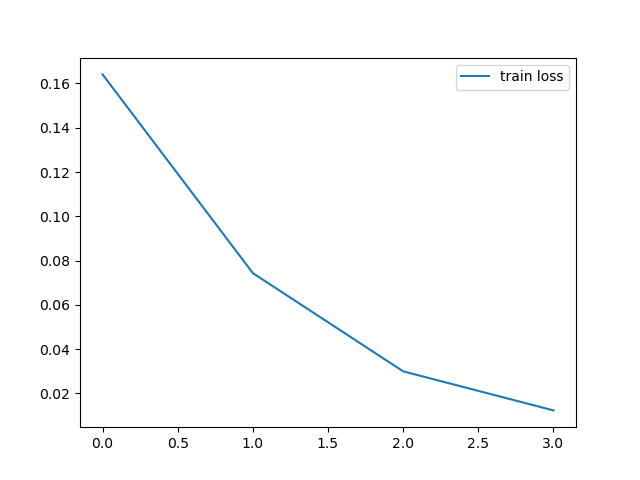
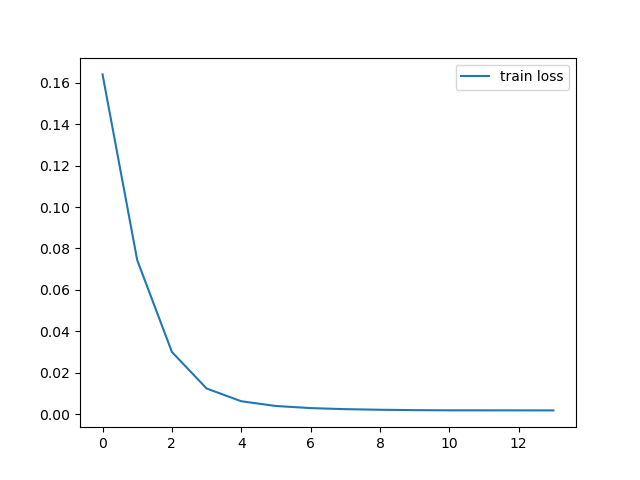
revamped file structure

diff --git a/neural_net_utils/core_test_train.py b/neural_net_utils/core_test_train.py
@@ -1,0 +1,62 @@
+import torch
+import torch.nn as nn
+
+def train(train_loader, model, optimizer, criterion, device, save_location,
+        n_epochs, use_parallel = False, scheduler = None, save_mod = 5, print_mod = 2, start_epoch = 0):
+    train_loss = []
+    for e in range(start_epoch, n_epochs):
+        model.train()
+        avg_loss = 0
+        for t, (x,y) in enumerate(train_loader):
+            x = x.to(device)
+            y = y.to(device)
+            optimizer.zero_grad()
+            yhat = model(x)
+            loss = criterion(yhat, y)
+            avg_loss += loss.item()
+            loss.backward()
+            optimizer.step()
+        avg_loss /= (t+1)
+        train_loss.append(avg_loss)
+
+        if scheduler is not None:
+            scheduler.step(e)
+        if e % print_mod == 0:
+            print('Epoch {}, loss = {:.4f}'.format(e, avg_loss))
+        if (e + 1) % save_mod == 0:
+            if use_parallel:
+                model_state = model.module.state_dict()
+            else:
+                model_state = model.state_dict()
+            if scheduler is not None:
+                torch.save({'model_state_dict': model_state,
+                            'epoch': e,
+                            'optimizer_state_dict': optimizer.state_dict(),
+                            'scheduler_state_dict': scheduler.state_dict(),
+                            'train_loss': train_loss},
+                            save_location)
+            else:
+                torch.save({'model_state_dict': model_state,
+                            'epoch': e,
+                            'optimizer_state_dict': optimizer.state_dict(),
+                            'scheduler_state_dict': None,
+                            'train_loss': train_loss},
+                            save_location)
+
+    return train_loss
+
+def test(loader, model, optimizer, criterion, device):
+    model.eval()
+    avg_loss = 0
+    with torch.no_grad():
+        for t, (x,y) in enumerate(loader):
+            x = x.to(device)
+            y = y.to(device)
+            optimizer.zero_grad()
+            yhat = model(x)
+            loss = criterion(yhat, y)
+            avg_loss += loss.item()
+    avg_loss /= (t+1)
+    print('\nMean test loss: {:.4f})'.format(avg_loss))
+    # TODO quartiles and median loss
+    return avg_loss

diff --git a/preprocess_data.py b/preprocess_data.py
@@ -1,9 +1,9 @@
-import os
 import numpy as np
-from utils import *
+from neural_net_utils.utils import *
+import sys
 
-def main(dir):
-    paths = sorted(make_dataset(dir))
+def process_data(dirname):
+    paths = sorted(make_dataset(dirname))
     for path in paths:
         print(path)
         x1_path = path + '/seq1.txt'
@@ -18,13 +18,47 @@ def main(dir):
 
         y_path = path + '/data_out/contacts.txt'
         y = np.loadtxt(y_path)[:1024, :1024] # TODO delete this later
-        np.save(path + '/y.npy', y.astype(np.int8))
+        np.save(path + '/y.npy', y.astype(np.int16))
 
-        y = diagonal_normalize(y.astype(np.float64))
-        np.save(path + '/y_diag_norm.npy', y)
+        y_diag = diagonal_normalize(y.astype(np.float64))
+        np.save(path + '/y_diag_norm.npy', y_diag)
+
+def test_process_data(dirname):
+    paths = sorted(make_dataset(dirname))
+    path = paths[0]
+    print(path)
+    x1_path = path + '/seq1.txt'
+    x1 = np.loadtxt(x1_path)
+    x2_path = path + '/seq2.txt'
+    x2 = np.loadtxt(x2_path)
+    x = np.vstack((x1, x2)).T
+    np.save(path + '/x.npy', x.astype(np.int8))
+    xload = np.load(path + '/x.npy')
+    assert np.array_equal(x, xload)
+
+    xx = x2xx(x)
+    np.save(path + '/xx.npy', xx.astype(np.int8))
+    xxload = np.load(path + '/xx.npy')
+    assert np.array_equal(xx, xxload)
+
+    y_path = path + '/data_out/contacts.txt'
+    y = np.loadtxt(y_path)[:1024, :1024] # TODO delete this later
+    np.save(path + '/y.npy', y.astype(np.int16))
+    yload = np.load(path + '/y.npy')
+    assert np.array_equal(y, yload)
+
+    y_diag = diagonal_normalize(y.astype(np.float64))
+    np.save(path + '/y_diag_norm.npy', y_diag)
+    y_diagload = np.load(path + '/y_diag_norm.npy')
+    assert np.array_equal(y_diag, y_diagload)
+
+def main():
+    if len(sys.argv) == 1:
+        dirname = 'dataset_04_06_21'
+    else:
+        dirname = sys.argv[1]
+    process_data(dirname)
 
 
 if __name__ == '__main__':
-    clusterdir = '../../../project2/depablo/erschultz/dataset_04_06_21'
-    mydir = 'dataset_04_06_21'
-    main(clusterdir)
+    main()

diff --git a/SimpleEpiNet.py b/SimpleEpiNet.py
@@ -1,7 +1,6 @@
 import torch
 import torch.nn as nn
 import torch.nn.functional as F
-from torch.utils.data import DataLoader
 import torch.optim as optim
 from neural_net_utils.networks import *
 from neural_net_utils.dataset_classes import *
@@ -10,24 +9,25 @@ from neural_net_utils.core_test_train import *
 import numpy as np
 import matplotlib.pyplot as plt
 import time
+import argparse
 
-def main(dirname, epochs = 1000, device = 'cuda:0', n = 1024, k = 2):
+def main(dirname = 'dataset_04_06_21', epochs = 10, n = 1024, k = 2, device = 'cpu'):
     t0 = time.time()
-    seq2ContactData = Sequences2Contacts(dirname, n = n, k = k, toxx = True)
-    train_dataloader, val_dataloader, test_dataloader = getDataloaders(seq2ContactData)
+    seq2ContactData = Sequences2Contacts(dirname, n = n, k = k, toxx = False)
+    train_dataloader, val_dataloader, test_dataloader = getDataLoaders(seq2ContactData, num_workers = 0)
 
     if device == 'cuda:0' and not torch.cuda.is_available():
         print('Warning: falling back to cpu')
         device = 'cpu'
 
-    model = UNet(nf_in = 2, nf_out = 1, nf = 8, out_act = nn.Sigmoid())
+    model = SimpleEpiNet(1024, 1, 2)
     model.to(device)
 
     optimizer = optim.Adam(model.parameters(), lr = 1e-3) # default beta TODO
     criterion = F.mse_loss
 
     train_loss_arr = train(train_dataloader, model, optimizer,
-            criterion, device, save_location = 'models/UNET1.pt', epochs = epochs)
+            criterion, device, save_location = 'models/model_4_8_21.pt', n_epochs = epochs)
     val_loss = test(val_dataloader, model, optimizer, criterion, device)
 
     print('Total time: {}'.format(time.time() - t0))
@@ -40,6 +40,4 @@ def main(dirname, epochs = 1000, device = 'cuda:0', n = 1024, k = 2):
     plt.close()
 
 if __name__ == '__main__':
-    clusterdir = '../../../project2/depablo/erschultz/dataset_04_06_21'
-    mydir = 'dataset_04_06_21'
-    main(clusterdir, 20)
+    main()

diff --git a/neural_net_utils/dataset_classes.py b/neural_net_utils/dataset_classes.py
@@ -1,0 +1,52 @@
+from torch.utils.data import Dataset, DataLoader
+from neural_net_utils.utils import *
+import torch
+
+class Sequences2Contacts(Dataset):
+    def __init__(self, dirname, n, k, toxx, y_diag_norm = True):
+        super(Sequences2Contacts, self).__init__()
+        self.n = n
+        self.k = k
+        self.toxx = toxx
+        self.y_diag_norm = y_diag_norm
+        self.paths = sorted(make_dataset(dirname))
+
+    def __getitem__(self, index):
+        y_path = self.paths[index] + '/y.npy'
+        y = np.load(y_path)
+        if self.y_diag_norm:
+            y = diagonal_normalize(y.astype(np.float64))
+        y = y.reshape(1, self.n, self.n)
+        y = y / np.max(y)
+
+        if self.toxx:
+            x_path = self.paths[index] + '/xx.npy'
+            x = np.load(x_path)
+        else:
+            x_path = self.paths[index] + '/x.npy'
+            x = np.load(x_path)
+            x = x.reshape(1, self.n, self.k)
+
+        return torch.Tensor(x), torch.Tensor(y)
+
+    def __len__(self):
+        return len(self.paths)
+
+class Contacts(Dataset):
+    def __init__(self, dirname, n, y_diag_norm = True):
+        super(Contacts, self).__init__()
+        self.n = n
+        self.y_diag_norm = y_diag_norm
+        self.paths = sorted(make_dataset(dirname))
+
+    def __getitem__(self, index):
+        y_path = self.paths[index] + '/y.npy'
+        y = np.load(y_path)
+        if self.y_diag_norm:
+            y = diagonal_normalize(y.astype(np.float64))
+        y = y.reshape(1, self.n, self.n)
+        y = y / np.max(y)
+        return y
+
+    def __len__(self):
+        return len(self.paths)

diff --git a/seqVAE.py b/seqVAE.py
@@ -1,33 +1,14 @@
 import torch
 import torch.nn as nn
-import torch.nn.functional as F
 from torch.utils.data import Dataset, DataLoader
 import torch.optim as optim
 import torchvision.transforms as transforms
-from neural_net_utils.base_networks import *
+from neural_net_utils.dataset_classes import *
 from neural_net_utils.networks import *
-import math
+from neural_net_utils.utils import getDataLoaders
 import numpy as np
 import matplotlib.pyplot as plt
-import os
-from utils import make_dataset
 import time
-
-class Contacts(Dataset):
-    def __init__(self, dir, size_y = 1024):
-        super(Contacts, self).__init__()
-        self.dir = dir
-        self.paths = sorted(make_dataset(dir))
-
-    def __getitem__(self, index):
-        y_path = self.paths[index] + '/y.npy'
-        y = np.load(y_path)
-        y = y.reshape(1, self.n, self.n)
-        y = y / np.max(y)
-        return torch.Tensor(y)
-
-    def __len__(self):
-        return len(self.paths)
 
 def trainVAE(train_loader, model, optimizer, device, save_location,
         epochs, save_mod = 5, print_mod = 2):
@@ -59,6 +40,8 @@ def trainVAE(train_loader, model, optimizer, device, save_location,
 def main(dir, epochs = 1000, device = 'cuda:0'):
     t0 = time.time()
     contactData = Contacts(dir)
+    for i in contactData:
+        print(i)
     train_dataloader = DataLoader(contactData, batch_size = 64,
                                     shuffle = True, num_workers = 0)
 

diff --git a/neural_net_utils/utils.py b/neural_net_utils/utils.py
@@ -1,7 +1,9 @@
+import torch
+from torch.utils.data import DataLoader
 from numba import jit
 import numpy as np
 import os
-import torch
+import math
 import matplotlib.pyplot as plt
 
 def make_dataset(dir):
@@ -11,6 +13,25 @@ def make_dataset(dir):
         data_file_arr.append(data_file)
         # TODO zero padded??
     return data_file_arr
+
+def getDataLoaders(dataset, batchSize = 64, num_workers = 0, split = [0.7, 0.2, 0.1]):
+    N = len(dataset)
+    assert sum(split) - 1 < 1e-5, sum(split)
+    trainN = math.floor(N * split[0])
+    valN = math.floor(N * split[1])
+    testN = N - trainN - valN
+    train_dataset, val_dataset, test_dataset = torch.utils.data.random_split(dataset,
+                                        [trainN, valN, testN],
+                                        generator = torch.Generator().manual_seed(42))
+    # TODO may need to shuffle before split
+    train_dataloader = DataLoader(train_dataset, batch_size = batchSize,
+                                    shuffle = True, num_workers = num_workers)
+    val_dataloader = DataLoader(val_dataset, batch_size = batchSize,
+                                    shuffle = True, num_workers = num_workers)
+    test_dataloader = DataLoader(test_dataset, batch_size = batchSize,
+                                    shuffle = True, num_workers = num_workers)
+
+    return train_dataloader, val_dataloader, test_dataloader
 
 @jit
 def x2xx(x, append = False):
